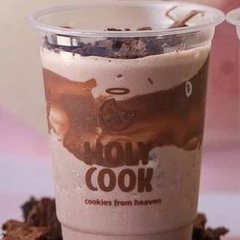
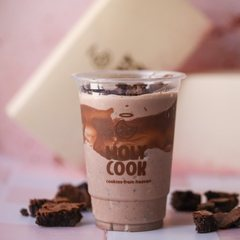
Fotos oficiais do cardapio digital em 25 itens (bebidas, milkshakes e cookies de frutas)

diff --git a/index.html b/index.html
@@ -129,6 +129,13 @@ h2{
   .hero-logo{width:84px}
 }
 
+/* foto de capa da secao */
+.capa-secao{
+  border-radius:20px;overflow:hidden;box-shadow:var(--sombra);
+  margin-bottom:14px;line-height:0;
+}
+.capa-secao img{width:100%;aspect-ratio:16/10;object-fit:cover;object-position:center 62%}
+
 /* lista de itens */
 .itens{display:grid;grid-template-columns:1fr;gap:10px}
 @media(min-width:700px){.itens{grid-template-columns:1fr 1fr;gap:12px}}
@@ -187,8 +194,7 @@ footer .creditos{margin-top:24px;font-size:.74rem;opacity:.5;line-height:1.5}
   box-shadow:0 1px 4px rgba(0,0,0,.25);
 }
 .destaque,.capa-secao{position:relative}
-.destaque .zoom-tag,.capa-secao .zoom-tag{right:10px;bottom:10px;width:30px;height:30px;background-size:17px}
-@media(min-width:700px){.destaque .zoom-tag{right:auto;left:10px;bottom:10px}}
+.destaque .zoom-tag,.capa-secao .zoom-tag{left:10px;top:10px;right:auto;bottom:auto;width:30px;height:30px;background-size:17px}
 
 .lb{
   position:fixed;inset:0;z-index:100;display:none;
@@ -366,36 +372,42 @@ footer .creditos{margin-top:24px;font-size:.74rem;opacity:.5;line-height:1.5}
         </div>
       </div>
       <div class="item">
+        <img class="thumb" src="img/t/cocada.jpg" alt="Holy Cocada Cremosa" loading="lazy">
         <div class="txt">
           <h3><span class="holy">Holy</span> Cocada Cremosa <span class="preco">R$ 14,90</span></h3>
           <p class="desc">Massa tradicional e recheio de cocada super cremooooosa</p>
         </div>
       </div>
       <div class="item">
+        <img class="thumb" src="img/t/limao-siciliano.jpg" alt="Holy Limão Siciliano" loading="lazy">
         <div class="txt">
           <h3><span class="holy">Holy</span> Limão Siciliano <span class="preco">R$ 16,90</span></h3>
           <p class="desc">Massa tradicional recheado com ganache de limão siciliano</p>
         </div>
       </div>
       <div class="item">
+        <img class="thumb" src="img/t/maracuja.jpg" alt="Holy Maracujá" loading="lazy">
         <div class="txt">
           <h3><span class="holy">Holy</span> Maracujá <span class="preco">R$ 16,90</span></h3>
           <p class="desc">Massa tradicional com recheio de maracujá com chocolate branco</p>
         </div>
       </div>
       <div class="item">
+        <img class="thumb" src="img/t/doce-leite-nozes.jpg" alt="Holy Doce de Leite com Nozes" loading="lazy">
         <div class="txt">
           <h3><span class="holy">Holy</span> Doce de Leite com Nozes <span class="preco">R$ 16,90</span></h3>
           <p class="desc">Massa tradicional com recheio de doce de leite e nozes</p>
         </div>
       </div>
       <div class="item">
+        <img class="thumb" src="img/t/churros.jpg" alt="Holy Churros" loading="lazy">
         <div class="txt">
           <h3><span class="holy">Holy</span> Churros <span class="preco">R$ 14,90</span></h3>
           <p class="desc">Massa tradicional com recheio doce de leite finalizado com açúcar e canela</p>
         </div>
       </div>
       <div class="item">
+        <img class="thumb" src="img/t/ninho-frutas.jpg" alt="Holy Ninho com Frutas" loading="lazy">
         <div class="txt">
           <h3><span class="holy">Holy</span> Ninho com Frutas <span class="preco">R$ 16,90</span></h3>
           <p class="desc">Massa com pedaços de chocolate branco recheado com brigadeiro de leite ninho e frutas vermelhas</p>
@@ -458,6 +470,7 @@ footer .creditos{margin-top:24px;font-size:.74rem;opacity:.5;line-height:1.5}
 
     <div class="itens">
       <div class="item">
+        <img class="thumb" src="img/t/ms-cookie.jpg" alt="Milkshake de Cookie" loading="lazy">
         <div class="txt">
           <h3>Cookie <span class="preco">R$ 26,90</span></h3>
           <p class="desc">Sabor baunilha com pedaços de cookie</p>
@@ -478,6 +491,7 @@ footer .creditos{margin-top:24px;font-size:.74rem;opacity:.5;line-height:1.5}
         </div>
       </div>
       <div class="item">
+        <img class="thumb" src="img/t/ms-ninho-nutella.jpg" alt="Milkshake de Ninho com Nutella" loading="lazy">
         <div class="txt">
           <h3>Ninho com Nutella <span class="preco">R$ 28,90</span></h3>
           <p class="desc">Leite ninho, nutella e pedaços de cookie</p>
@@ -509,24 +523,28 @@ footer .creditos{margin-top:24px;font-size:.74rem;opacity:.5;line-height:1.5}
 
     <div class="itens">
       <div class="item">
+        <img class="thumb" src="img/t/frap-nutella.jpg" alt="Frappuccino de Nutella" loading="lazy">
         <div class="txt">
           <h3>Frappuccino de Nutella <span class="preco">R$ 20,90</span></h3>
           <p class="desc">Leite, gelo, café e muita nutella</p>
         </div>
       </div>
       <div class="item">
+        <img class="thumb" src="img/t/frap-doce-leite.jpg" alt="Frappuccino de Doce de Leite" loading="lazy">
         <div class="txt">
           <h3>Frappuccino de Doce de Leite <span class="preco">R$ 20,90</span></h3>
           <p class="desc">Leite, gelo, café e doce de leite feito na Holy</p>
         </div>
       </div>
       <div class="item">
+        <img class="thumb" src="img/t/cappuccino-gelado.jpg" alt="Cappuccino Gelado" loading="lazy">
         <div class="txt">
           <h3>Cappuccino Gelado <span class="preco">R$ 22,90</span></h3>
           <p class="desc">Leite, gelo, café, sorvete e chocolate ao leite</p>
         </div>
       </div>
       <div class="item">
+        <img class="thumb" src="img/t/iced-caramel.jpg" alt="Iced Caramel" loading="lazy">
         <div class="txt">
           <h3>Iced Caramel <span class="preco">R$ 18,90</span></h3>
           <p class="desc">Leite, gelo, café e caramelo artesanal da Holy</p>
@@ -551,36 +569,42 @@ footer .creditos{margin-top:24px;font-size:.74rem;opacity:.5;line-height:1.5}
 
     <div class="itens">
       <div class="item">
+        <img class="thumb" src="img/t/cafe-expresso.jpg" alt="Café Expresso" loading="lazy">
         <div class="txt">
           <h3>Café Expresso <span class="preco">R$ 8,90</span></h3>
           <p class="desc">Grão Blend Moka da cafeteira Cambuí</p>
         </div>
       </div>
       <div class="item">
+        <img class="thumb" src="img/t/cafe-duplo.jpg" alt="Café Expresso Duplo" loading="lazy">
         <div class="txt">
           <h3>Café Expresso Duplo <span class="preco">R$ 10,90</span></h3>
           <p class="desc">Grão Blend Moka da cafeteira Cambuí</p>
         </div>
       </div>
       <div class="item">
+        <img class="thumb" src="img/t/cappuccino-italiano.jpg" alt="Cappuccino Italiano" loading="lazy">
         <div class="txt">
           <h3>Cappuccino Italiano <span class="preco">R$ 12,90</span></h3>
           <p class="desc">Leite vaporizado com café expresso</p>
         </div>
       </div>
       <div class="item">
+        <img class="thumb" src="img/t/cappuccino-chocolate.jpg" alt="Cappuccino com Chocolate" loading="lazy">
         <div class="txt">
           <h3>Cappuccino com Chocolate <span class="preco">R$ 14,90</span></h3>
           <p class="desc">Leite vaporizado com café expresso e pedaços de chocolate. Opcional: chocolate meio amargo ou canela em pó</p>
         </div>
       </div>
       <div class="item">
+        <img class="thumb" src="img/t/chocolate-quente.jpg" alt="Chocolate Quente" loading="lazy">
         <div class="txt">
           <h3>Chocolate Quente <span class="preco">R$ 20,90</span></h3>
           <p class="desc">Chocolate meio amargo e leite vaporizado, muito cremoso</p>
         </div>
       </div>
       <div class="item">
+        <img class="thumb" src="img/t/baunilha.jpg" alt="Baunilha" loading="lazy">
         <div class="txt">
           <h3>Baunilha <span class="preco">R$ 14,90</span></h3>
           <p class="desc">Leite com extrato puro de baunilha e açúcar</p>
@@ -590,11 +614,11 @@ footer .creditos{margin-top:24px;font-size:.74rem;opacity:.5;line-height:1.5}
 
     <h2 style="margin-top:34px">Outras Bebidas</h2>
     <div class="itens" style="margin-top:20px">
-      <div class="item"><div class="txt"><h3>Água <span class="preco">R$ 6,90</span></h3></div></div>
-      <div class="item"><div class="txt"><h3>Água com Gás <span class="preco">R$ 6,90</span></h3></div></div>
-      <div class="item"><div class="txt"><h3>Coca-Cola <span class="preco">R$ 8,90</span></h3></div></div>
-      <div class="item"><div class="txt"><h3>Sucos <span class="preco">R$ 9,90</span></h3><p class="desc">Consulte os sabores</p></div></div>
-      <div class="item"><div class="txt"><h3>Soda Italiana <span class="preco">R$ 18,90</span></h3><p class="desc">Água com gás e xarope Monin (morango e limão)</p></div></div>
+      <div class="item"><img class="thumb" src="img/t/agua.jpg" alt="Água" loading="lazy"><div class="txt"><h3>Água <span class="preco">R$ 6,90</span></h3></div></div>
+      <div class="item"><img class="thumb" src="img/t/agua-gas.jpg" alt="Água com Gás" loading="lazy"><div class="txt"><h3>Água com Gás <span class="preco">R$ 6,90</span></h3></div></div>
+      <div class="item"><img class="thumb" src="img/t/coca-cola.jpg" alt="Coca-Cola" loading="lazy"><div class="txt"><h3>Coca-Cola <span class="preco">R$ 8,90</span></h3></div></div>
+      <div class="item"><img class="thumb" src="img/t/suco.jpg" alt="Sucos" loading="lazy"><div class="txt"><h3>Sucos <span class="preco">R$ 9,90</span></h3><p class="desc">Consulte os sabores</p></div></div>
+      <div class="item"><img class="thumb" src="img/t/soda-italiana.jpg" alt="Soda Italiana" loading="lazy"><div class="txt"><h3>Soda Italiana <span class="preco">R$ 18,90</span></h3><p class="desc">Água com gás e xarope Monin (morango e limão)</p></div></div>
     </div>
   </div>
 </section>
@@ -628,6 +652,7 @@ footer .creditos{margin-top:24px;font-size:.74rem;opacity:.5;line-height:1.5}
         </div>
       </div>
       <div class="item">
+        <img class="thumb" src="img/t/croissant.jpg" alt="Croissant" loading="lazy">
         <div class="txt">
           <h3>Croissant <span class="preco">R$ 16,90</span></h3>
           <p class="desc">Escolha seu adicional: manteiga (+R$ 5,00) ou geleia de frutas vermelhas (+R$ 5,00)</p>
@@ -646,6 +671,7 @@ footer .creditos{margin-top:24px;font-size:.74rem;opacity:.5;line-height:1.5}
         </div>
       </div>
       <div class="item">
+        <img class="thumb" src="img/t/waffle-pao-queijo.jpg" alt="Waffle Pão de Queijo" loading="lazy">
         <div class="txt">
           <h3>Waffle Pão de Queijo <span class="preco">R$ 9,90</span></h3>
           <p class="desc">Pão de queijo em formato de waffle com queijo meia cura</p>
